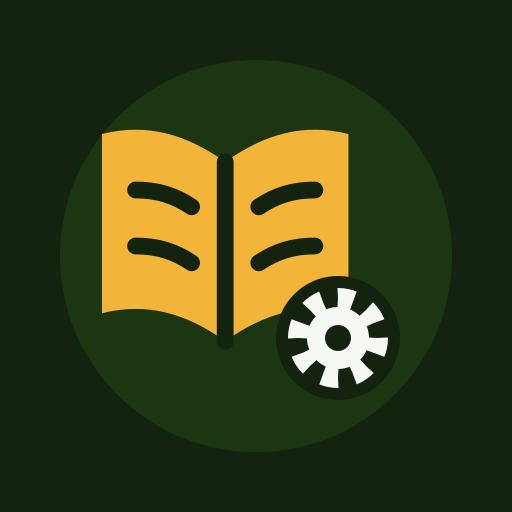
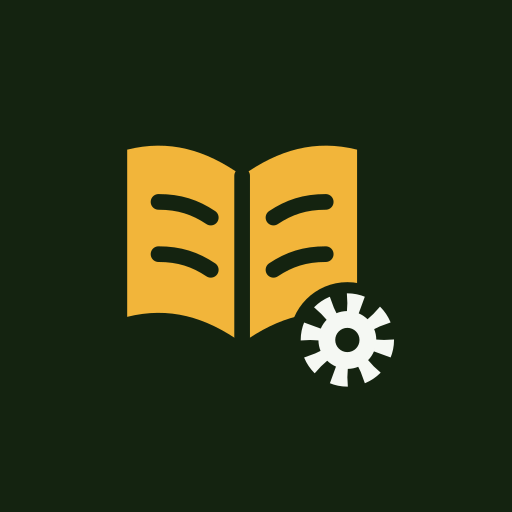
feat(mobile): menus Notifs et Profil plus réactifs, retour d’appui, courbe d’animation commune et icônes du back-office recentrées

Changed region(s): [[0.1875, 0.25, 0.7812, 0.7812], [0.3438, 0.5938, 0.375, 0.625]]

diff --git a/style.css b/style.css
@@ -32,7 +32,7 @@
     --duree-rapide: 160ms;
     --duree-normale: 250ms;
     --duree-apparition: 450ms;
-    --courbe: cubic-bezier(.2, .8, .2, 1);
+    --courbe: cubic-bezier(0.22, 1, 0.36, 1);
     --courbe-rebond: cubic-bezier(.34, 1.56, .64, 1);
     --transition: var(--duree-normale) var(--courbe);
     --bibli-vert: var(--vert);
@@ -261,7 +261,7 @@ h1, h2, h3, .titre { font-family: var(--police-titre); font-weight: 700; letter-
 .btn-check:checked + .puce-tag { background: var(--vert); border-color: var(--vert); color: #fff; }
 .btn-check:checked + .puce-tag .compte-tag { background: rgba(255, 255, 255, .2); color: #fff; }
 .btn-check:focus-visible + .puce-tag { outline: 2px solid var(--texte-vif); outline-offset: 2px; }
-.btn-check:active + .puce-tag { transform: scale(.96); }
+.btn-check:active + .puce-tag { transform: scale(.97); }
 .filtre-depliant { border-top: 1px solid var(--trait); padding-top: .75rem; }
 .filtre-depliant summary { display: flex; align-items: center; gap: .5rem; cursor: pointer; font-weight: 700; list-style: none; min-height: 44px; }
 .filtre-depliant summary::-webkit-details-marker { display: none; }
@@ -632,7 +632,7 @@ h1, h2, h3, .titre { font-family: var(--police-titre); font-weight: 700; letter-
 }
 
 .bouton:active, .btn-bibli:active, .btn-outline-bibli:active, .bouton-categories:active, .puce:active, .lien-voir-tout:active {
-    transform: translateY(0) scale(.96);
+    transform: translateY(0) scale(.97);
     transition-duration: 80ms;
 }
 .puce { transition: background var(--transition), border-color var(--transition), color var(--transition), transform var(--duree-rapide) var(--courbe); }
@@ -646,11 +646,12 @@ h1, h2, h3, .titre { font-family: var(--police-titre); font-weight: 700; letter-
 .icone-entete { border-radius: var(--rayon); transition: color var(--transition); }
 .entete .icone-entete:focus-visible, .entete .bouton-loupe:focus-visible, .entete .bouton-categories:focus-visible { outline-color: var(--texte-vert); }
 .icone-entete :is(i, .icone-dessin) { transition: transform var(--duree-normale) var(--courbe-rebond); }
-.icone-entete:hover :is(i, .icone-dessin), .icone-entete:focus-visible :is(i, .icone-dessin) { transform: translateY(-2px) scale(1.08); }
-.icone-entete:active :is(i, .icone-dessin) { transform: scale(.9); }
+.icone-entete:focus-visible :is(i, .icone-dessin) { transform: translateY(-2px) scale(1.08); }
+@media (hover: hover) { .icone-entete:hover :is(i, .icone-dessin) { transform: translateY(-2px) scale(1.08); } }
+.icone-entete:active :is(i, .icone-dessin) { transform: scale(.97); transition-duration: 80ms; }
 .icone-entete::after { content: ""; position: absolute; left: 30%; right: 30%; bottom: -4px; height: 2px; border-radius: 2px; background: var(--vert-500);
                        transform: scaleX(0); transition: transform var(--transition); }
-.icone-entete:hover::after { transform: scaleX(1); }
+@media (hover: hover) { .icone-entete:hover::after { transform: scaleX(1); } }
 
 .recherche-entete .champ-recherche { transition: border-color var(--transition), box-shadow var(--transition), background var(--transition); }
 .recherche-entete .champ-recherche:hover { border-color: var(--vert-200); }
@@ -1093,7 +1094,7 @@ fieldset legend.form-label { float: none; width: auto; }
 .bouton:hover .bi-camera { transform: scale(1.12); }
 .bouton:focus-visible { outline: 3px solid var(--vert-400); outline-offset: 3px; }
 .bouton-danger:focus-visible, .bouton-danger-plein:focus-visible { outline-color: var(--danger-trait); }
-.bouton:active, .bouton-danger:active { transform: translateY(0) scale(.96); transition-duration: 80ms; }
+.bouton:active, .bouton-danger:active { transform: translateY(0) scale(.97); transition-duration: 80ms; }
 .bouton:disabled { opacity: .6; cursor: wait; }
 .bouton-lien { background: none; border: 0; padding: 0; color: var(--encre-douce); font-size: .88rem; text-decoration: underline; text-underline-offset: 3px; cursor: pointer;
                transition: color var(--transition); }
@@ -2491,3 +2492,16 @@ body { padding-left: env(safe-area-inset-left); padding-right: env(safe-area-ins
 .qsn-lire-suite i { transition: transform var(--duree-rapide, 160ms); }
 .qsn-histoire--depliee .qsn-lire-suite i { transform: rotate(180deg); }
 .qsn-histoire--repliee .qsn-histoire__suite { display: none; }
+
+a, button, input, select, textarea, label, summary, [role="button"], .btn, .bouton { touch-action: manipulation; }
+.bouton-fermer-menu { transition: transform var(--duree-rapide) var(--courbe), background-color var(--duree-rapide) var(--courbe); }
+.bouton-fermer-menu:active, .lien-menu-compte:active, .notification:active { transform: scale(.97); }
+@media (max-width: 991.98px) {
+    .voile-menu-compte, .voile-tiroir { animation-duration: 200ms; }
+    .panneau-ouvert #menu-compte, .tiroir-ouvert .menu-notifications { animation: ouverture-panneau-mobile 200ms var(--courbe) both; transform-origin: top right; }
+    .panneau-ouvert .menu-entete > li, .tiroir-ouvert .menu-notifications > li { animation: none; }
+    .panneau-ouvert .jauge-niveau span { animation-delay: 0ms; animation-duration: 200ms; }
+}
+@keyframes ouverture-panneau-mobile {
+    from { opacity: 0; transform: translateY(-8px) scale(.97); }
+}

diff --git a/admin/admin.css b/admin/admin.css
@@ -30,7 +30,7 @@
     --ombre-survol: 0 10px 28px rgba(14, 31, 7, .13);
     --duree-rapide: 160ms;
     --duree-normale: 250ms;
-    --courbe: cubic-bezier(.2, .8, .2, 1);
+    --courbe: cubic-bezier(0.22, 1, 0.36, 1);
     --largeur-menu: 250px;
     --bs-body-font-family: var(--police-texte);
     --bs-body-color: var(--encre);
@@ -647,3 +647,5 @@ body.apercu-outil { display: flex; flex-direction: column; height: 100vh; height
     .acces-rapide { flex: 0 0 auto; }
 }
 
+a, button, input, select, textarea, label, summary, [role="button"], .btn { touch-action: manipulation; }
+.admin-menu-lien:active, .stat:active, .ligne-a-traiter:active { transform: scale(.97); }

diff --git a/javascript/menu_compte.js b/javascript/menu_compte.js
@@ -8,6 +8,7 @@ document.addEventListener('DOMContentLoaded', function () {
     const ecranLarge = window.matchMedia('(min-width: 992px)');
 
     function ajusterHauteur() {
+        if (!ecranLarge.matches) return;
         const basDeclencheur = zone.getBoundingClientRect().bottom;
         menu.style.setProperty('--hauteur-dispo', Math.max(220, window.innerHeight - basDeclencheur - 16) + 'px');
     }
